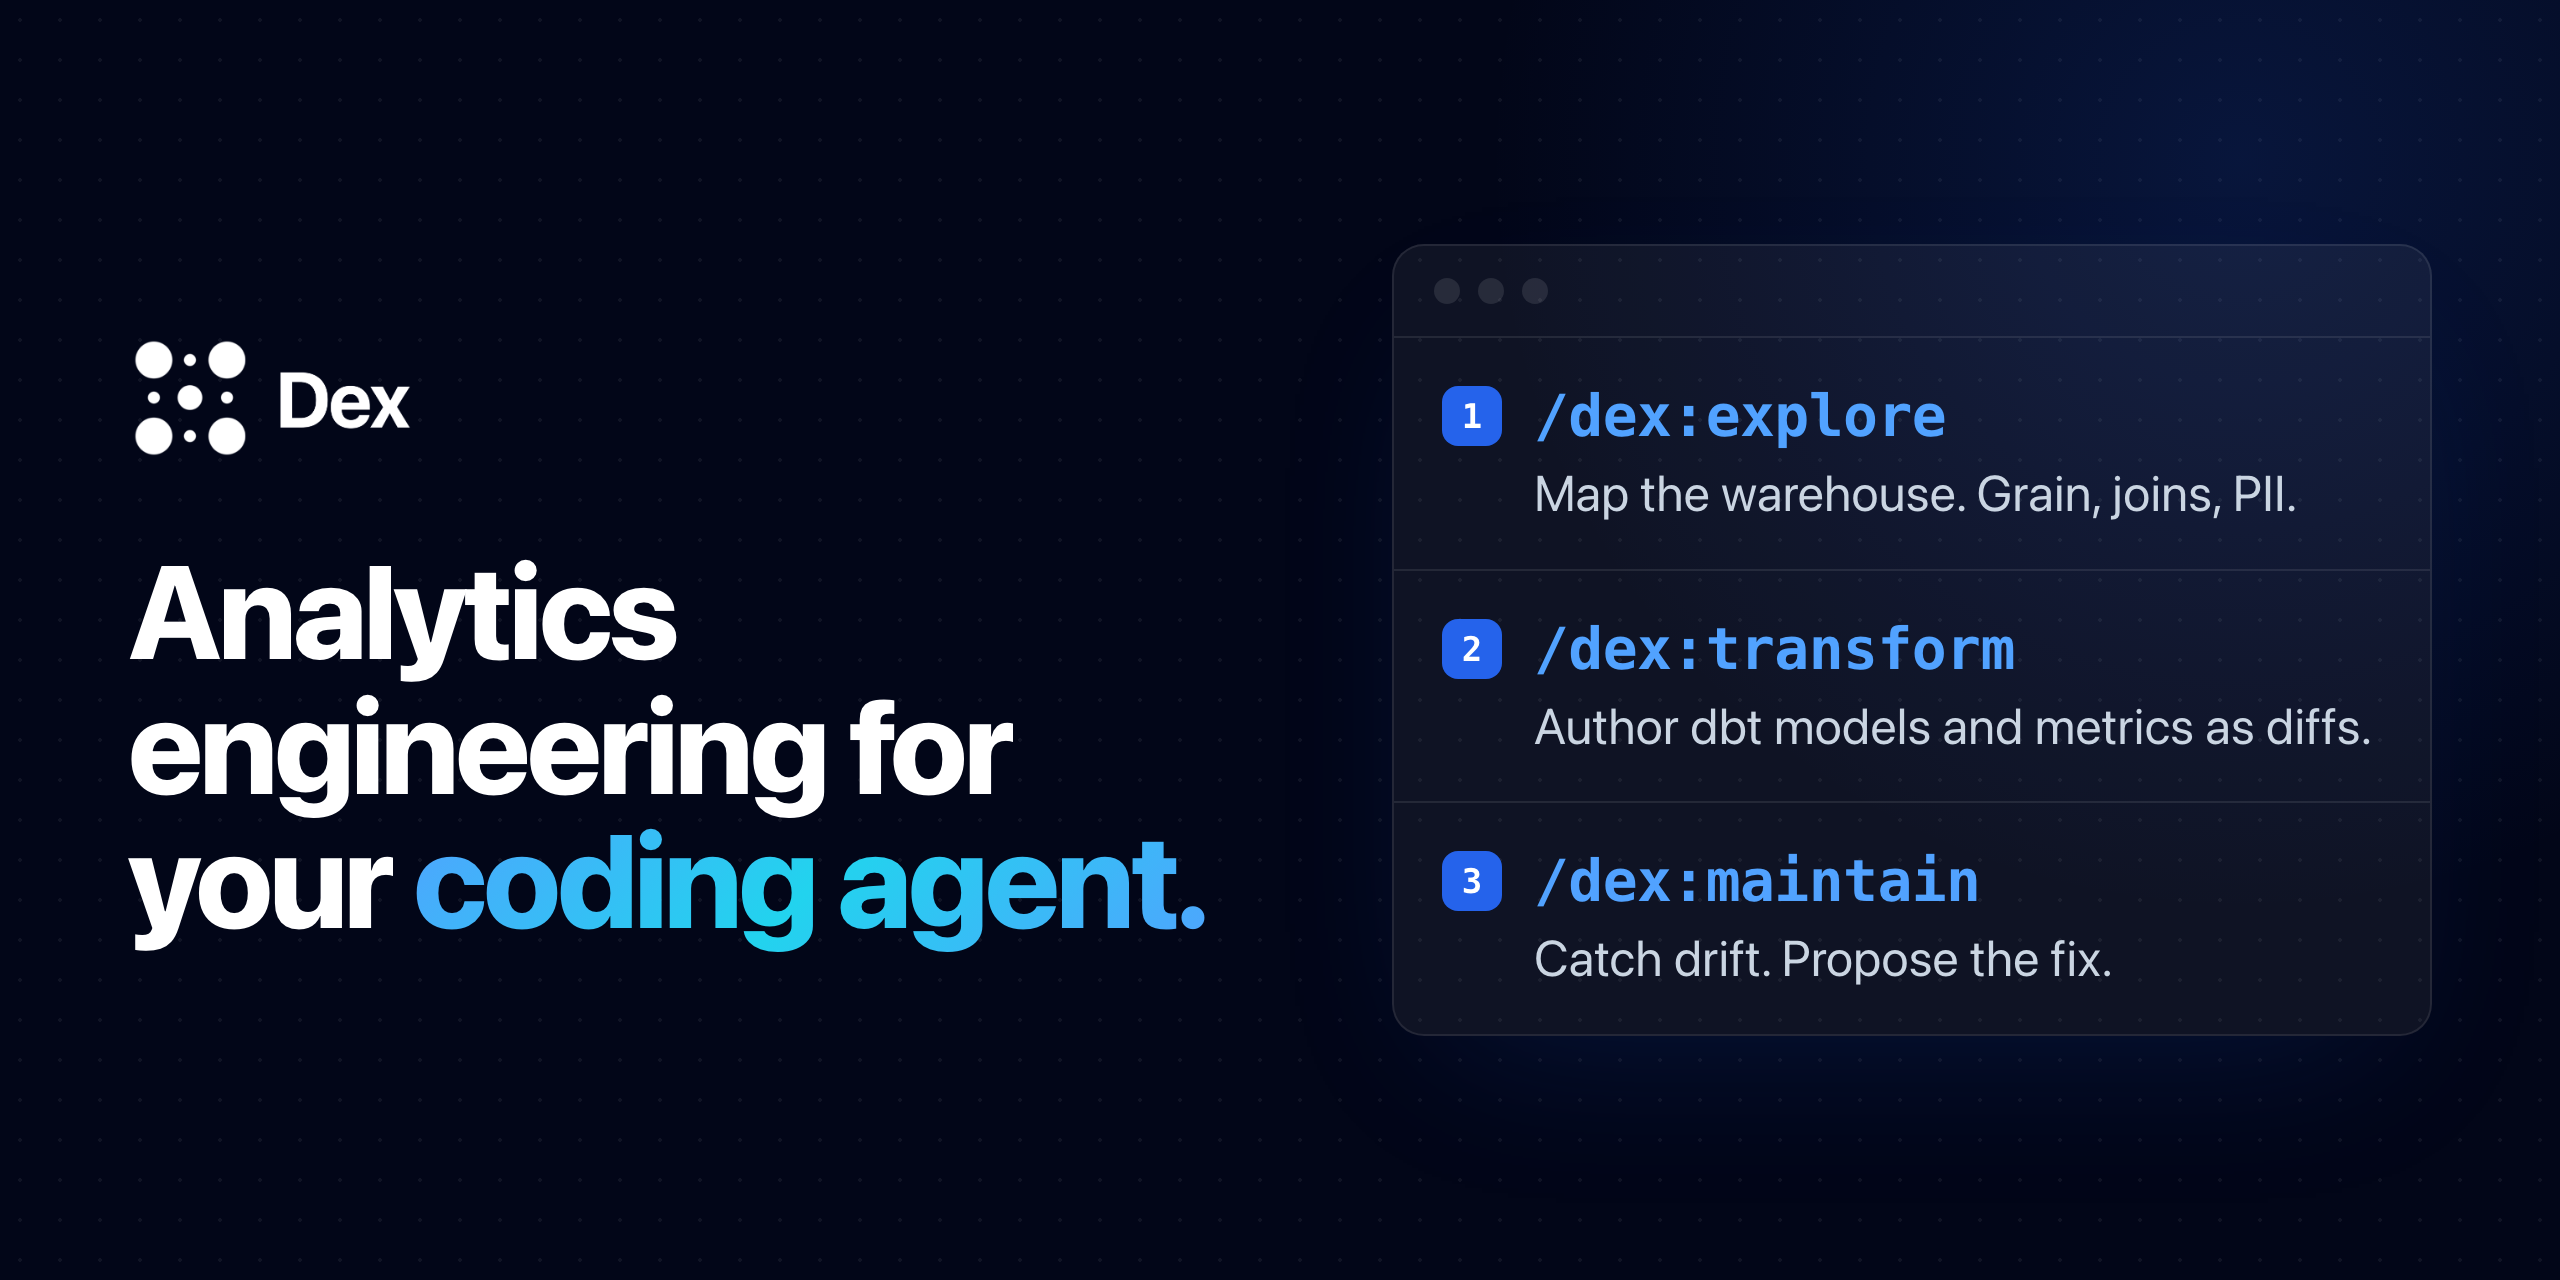
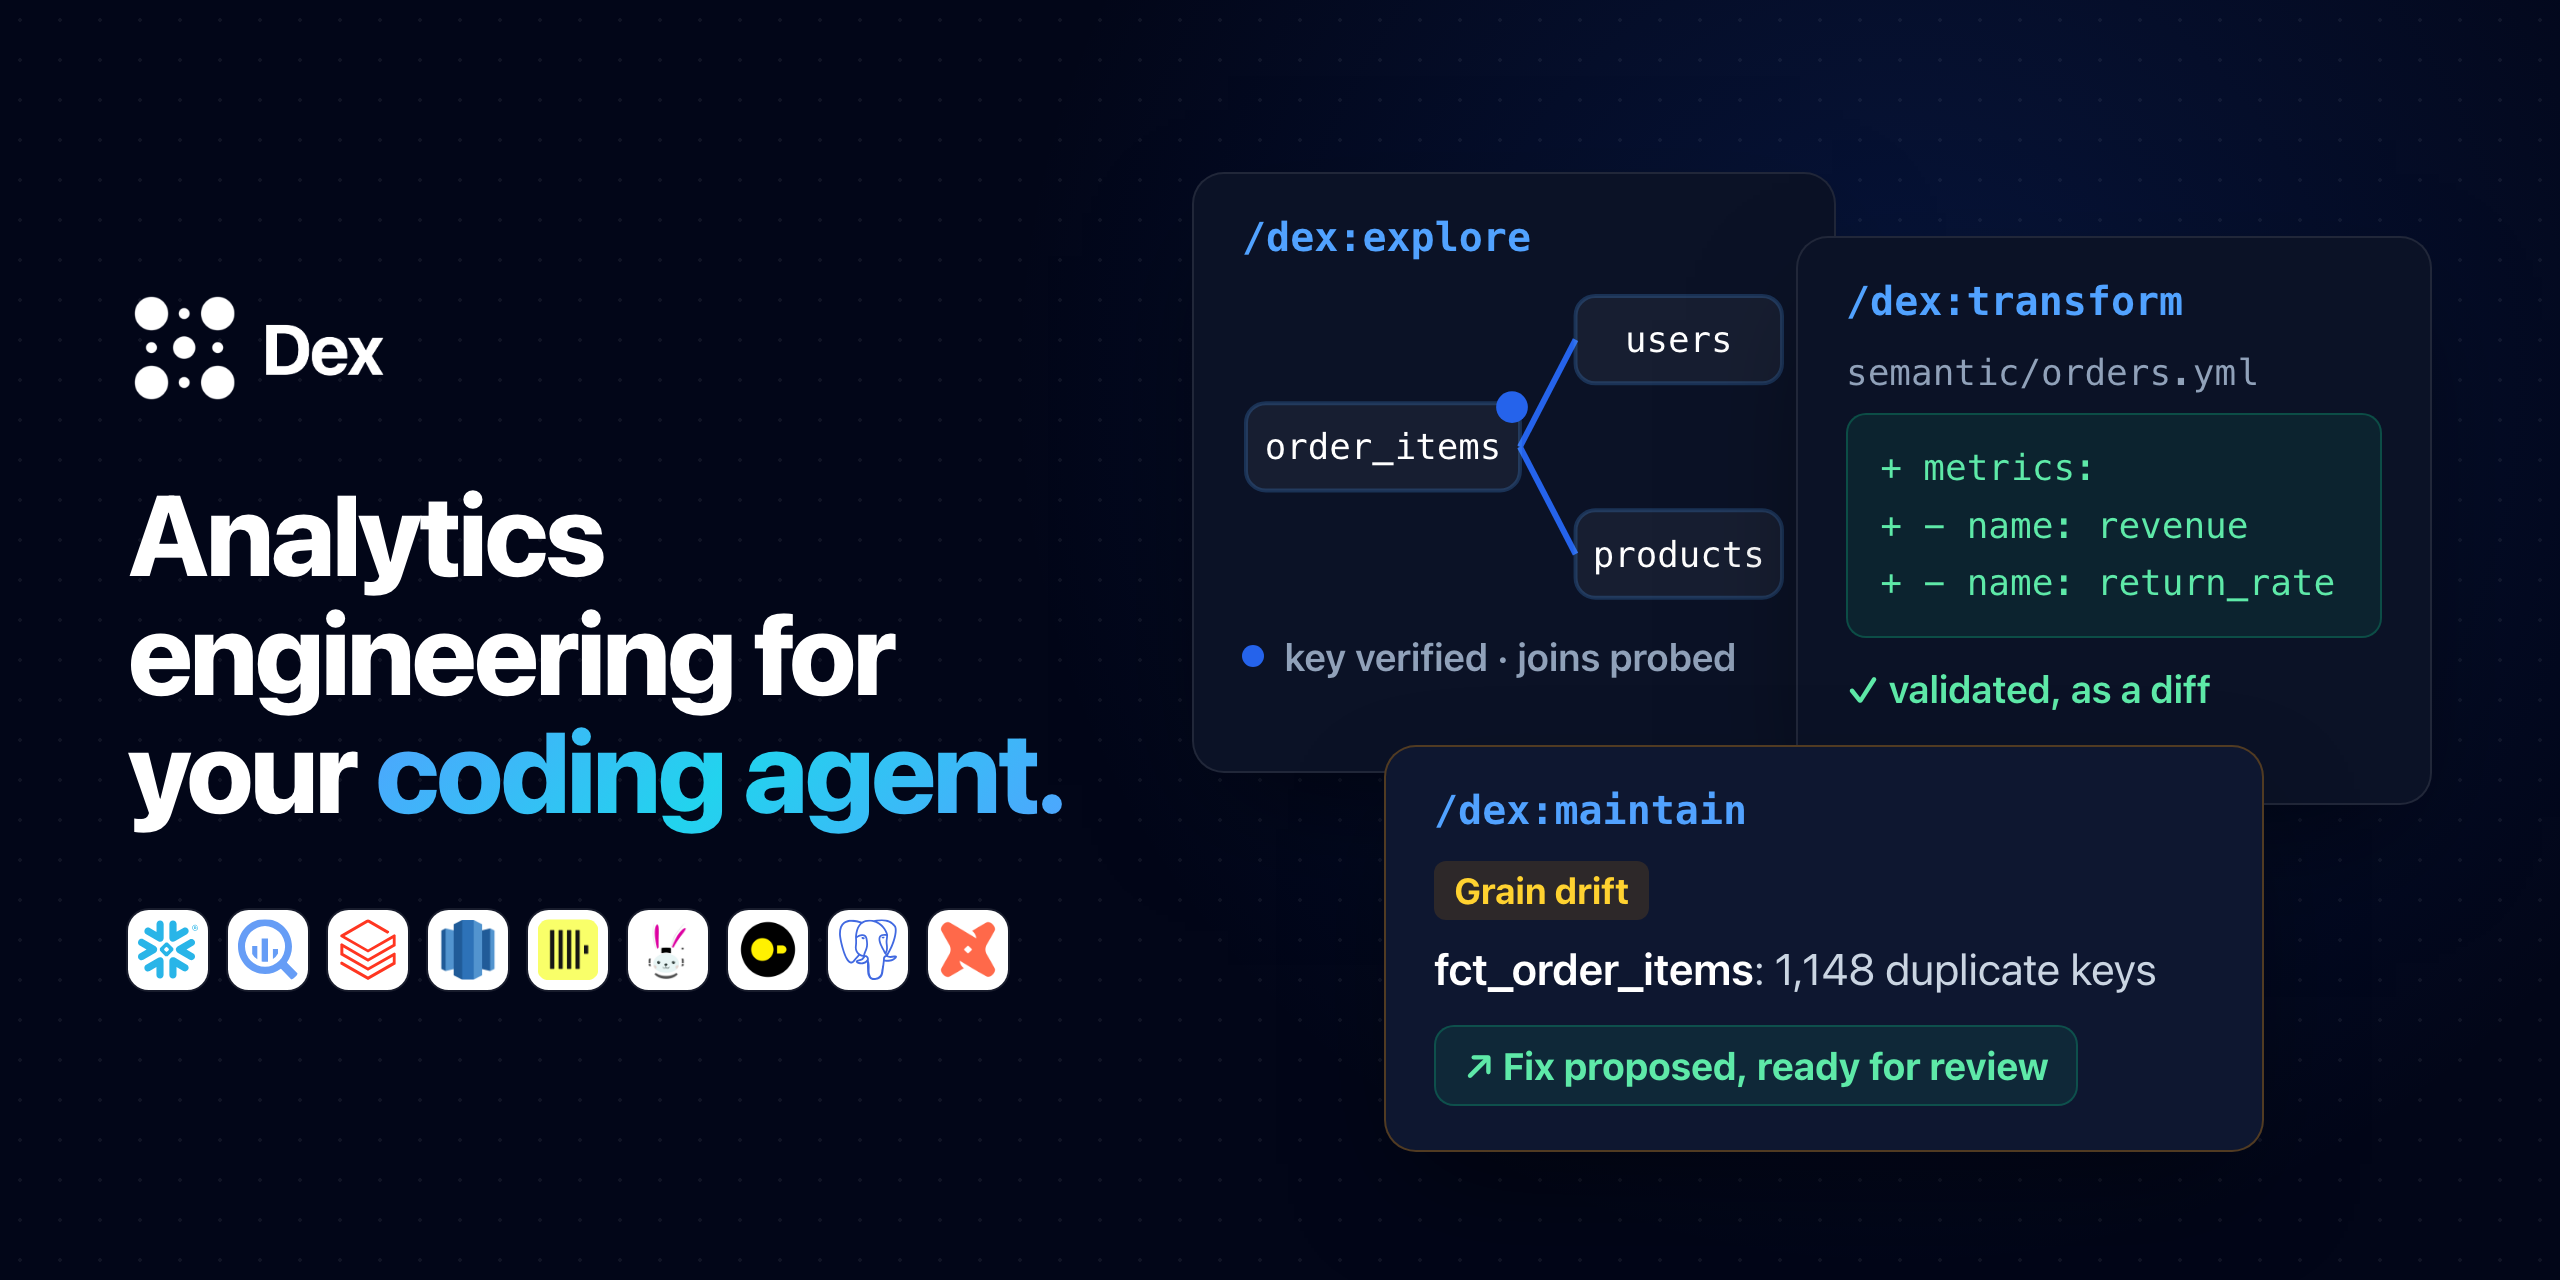
Update preview image

diff --git a/README.md b/README.md
@@ -1,4 +1,7 @@
-<img width="1920" height="1080" alt="Video 2" src="https://github.com/user-attachments/assets/f9c8c052-32fb-4b2f-8b89-a6f484b55035" />
+<picture>
+  <source media="(prefers-color-scheme: dark)" srcset="assets/preview-dark.png" />
+  <img alt="dex: analytics engineering for your coding agent. Explore, transform, maintain." src="assets/preview-light.png" />
+</picture>
 
 # dex
 
@@ -78,8 +81,8 @@ What you get:
 - **Transform** your dbt project and semantic layer. Models, tests, docs, and metrics arrive as reviewable plans and build only on a dev target.
 - **Maintain** it as the world changes. Schema, volume, grain, and metric-definition drift, each with a proposed fix.
 
-Read-only against your data. Cost quoted before any spend. Every change is a diff
-you review. Works in Claude Code, Codex, or any agent that loads Agent Skills.
+Your source data is never written to, and builds run on a dev target only. Cost
+quoted before any spend. Every change is a diff you review. Works in Claude Code, Codex, or any agent that loads Agent Skills.
 
 ## Why
 
@@ -158,7 +161,8 @@ type contradicts their content, and two designed PII false positives. See the
 flowchart LR
   Agent[Coding agent] --> Skills[dex skills]
   Skills --> Engine[exmergo-dex-core engine]
-  Engine -->|read-only SQL, cost-capped| Warehouse[(Your warehouse)]
+  Engine -->|SELECT-only SQL, cost-capped| Warehouse[(Your warehouse)]
+  Engine -->|dbt builds, dev target only| Warehouse
   Engine -->|one sanitized JSON envelope| Agent
   Engine -->|plans as diffs| Repo[Your repository: dbt project + semantic layer]
   Engine <--> Cache[.dex/ cache and snapshot]
@@ -232,7 +236,7 @@ but it is local spend history, so there is no reason to commit it.
 
 ### What dex will never do
 
-- **Write to your data.** Warehouse access is read-only, and generated SQL is SELECT-only.
+- **Write to your source data.** dex's own SQL is SELECT-only. The only writes to your warehouse are the dbt builds you confirm, on a dev target.
 - **Put personal data in your agent's context.** PII is flagged by column, category, and confidence, and never surfaced. Only a human clears a flag. ([PII policy](https://docs.exmergo.com/dex/guardrails/pii-policy))
 - **Spend before quoting.** A metered scan returns an estimate and runs only with your confirmation and a budget. ([cost controls](https://docs.exmergo.com/dex/guardrails/cost-controls))
 - **Change your project behind your back.** Every edit is a diff, and a human edit made since planning is never overwritten. ([source of truth](https://docs.exmergo.com/dex/concepts/source-of-truth))
@@ -342,7 +346,7 @@ treat these scores as guide posts. ([evaluation](https://docs.exmergo.com/dex/re
 ## What dex sends where
 
 - **On install**, `uv` downloads the pinned engine (and a Python 3.11 to 3.14 if you have none) from PyPI or your configured index.
-- **Your warehouse** gets read-only SQL, with credentials from your existing credential chain.
+- **Your warehouse** gets SELECT-only SQL from dex, plus the dbt builds you confirm on a dev target, with credentials from your existing credential chain.
 - **dbt Cloud** is contacted only if you enable the hosted semantic layer.
 - **dbt-core**, when dex runs it, sends dbt Labs its own anonymous usage statistics unless you turn them off. `transform deps` downloads the packages your `packages.yml` declares.
 - **Your repository** holds dex's state in `.dex/`. dbt writes its usual `target/` and `logs/`.

diff --git a/assets/README.md b/assets/README.md
@@ -3,3 +3,9 @@
 `icon.png` is the existing 192 x 192 Exmergo mark, copied unchanged from
 https://www.exmergo.com/Exmergo-screenshots/Exmergo-Logo-Black-Transparent.png.
 It is used for both the Codex composer icon and listing logo.
+
+# Preview image
+
+`preview-dark.png` and `preview-light.png` are the README banner (the light one
+is served unless the reader's GitHub theme is dark) and the repository's
+social preview. Both are 2560 x 1280, GitHub's 1280 x 640 social card at 2x.
